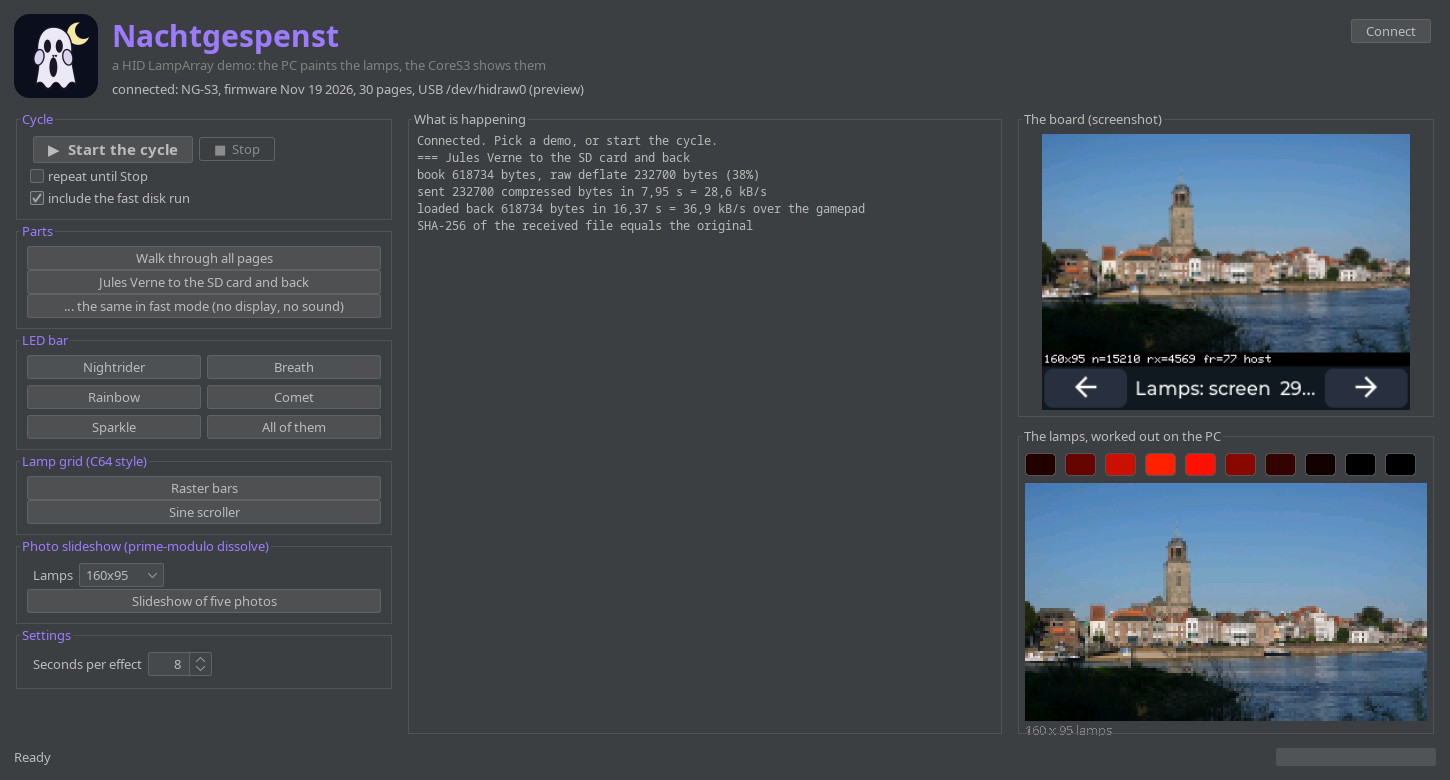
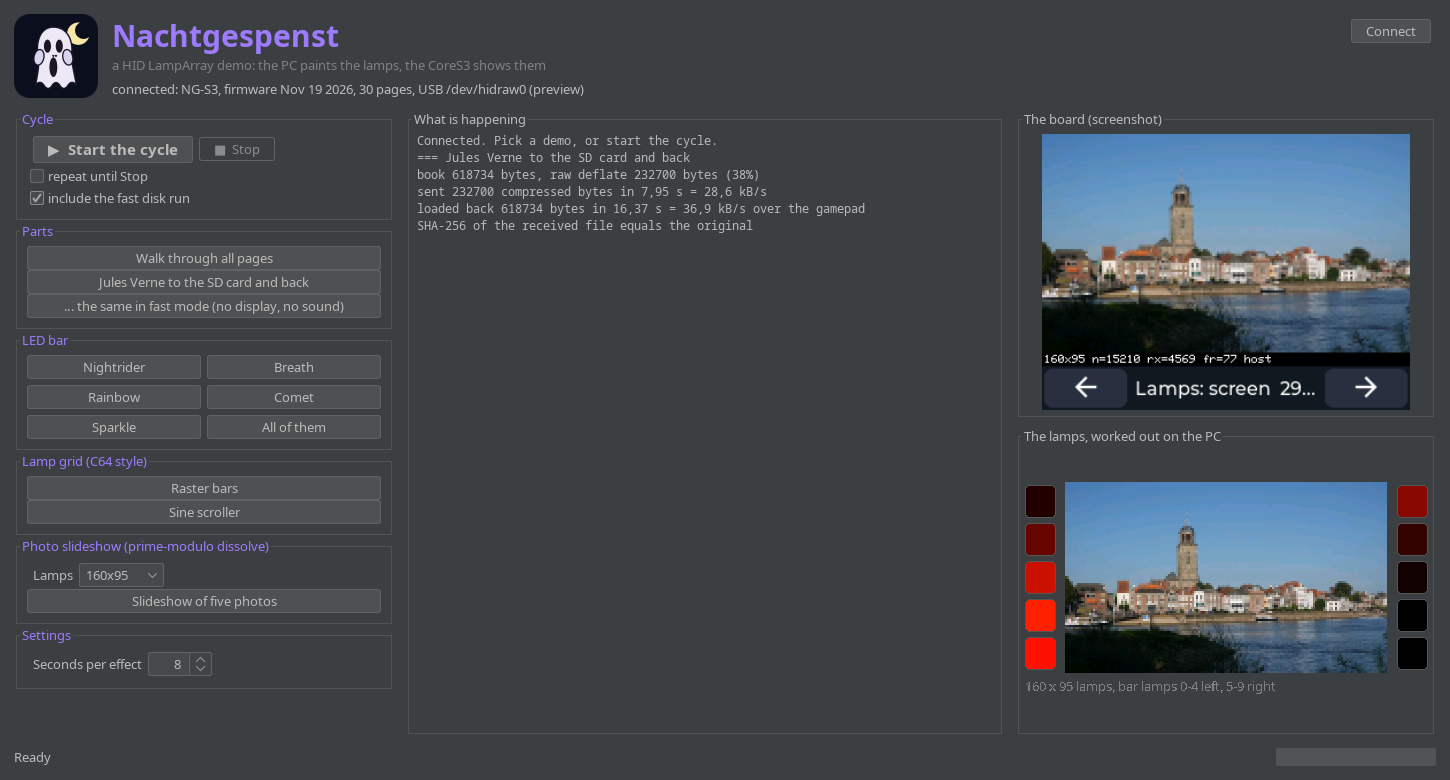
Demo window: the bar lamps as two vertical bars left and right of the local lamp picture

Changed region(s): [[0.6828, 0.5846, 0.9931, 0.9538]]

diff --git a/tools/DemoApp.java b/tools/DemoApp.java
@@ -330,24 +330,38 @@ public class DemoApp {
         void setBar(int[] rgb) { bar = rgb; touch(); }
         void setGrid(int[] rgb, int c, int r) { grid = rgb; cols = c; rows = r; touch(); }
         void clear() { bar = new int[10]; grid = null; touch(); }
+        /** Two vertical bars of five lamps left and right of the picture (lamps 0 to 4 on the left, 5 to 9 on the right, top to bottom). */
         @Override protected void paintComponent(Graphics g0) {
             super.paintComponent(g0);
             Graphics2D g = (Graphics2D) g0;
-            Insets in = getInsets(); int w = getWidth() - in.left - in.right - 8, x0 = in.left + 4, y = in.top + 6;
-            int[] b = bar; int cell = Math.min(34, w / 10);
-            for (int i = 0; i < 10; i++) {
-                g.setColor(new Color(b[i] & 0xFFFFFF)); g.fillRoundRect(x0 + i * (w / 10), y, cell - 4, 22, 8, 8);
-                g.setColor(new Color(0x555555)); g.drawRoundRect(x0 + i * (w / 10), y, cell - 4, 22, 8, 8);
+            Insets in = getInsets();
+            int barW = 30, gap = 10, x0 = in.left + 4, y0 = in.top + 6;
+            int w = getWidth() - in.left - in.right - 8, h = getHeight() - in.top - in.bottom - 34;
+            int availW = w - 2 * (barW + gap);
+            int[] gr = grid; int c = cols, r = rows;
+            double aspect = gr == null ? 320.0 / 190.0 : (double) c / r;                 // the lamp area of the device is 320 x 190
+            int pw = availW, ph = (int) (pw / aspect);
+            if (ph > h) { ph = h; pw = (int) (ph * aspect); }
+            int px = x0 + barW + gap + (availW - pw) / 2, py = y0 + (h - ph) / 2;
+            int[] b = bar;
+            for (int side = 0; side < 2; side++) {
+                int bx = side == 0 ? px - gap - barW : px + pw + gap;
+                for (int i = 0; i < 5; i++) {
+                    int cell = ph / 5, ly = py + i * cell + 3;
+                    g.setColor(new Color(b[side * 5 + i] & 0xFFFFFF)); g.fillRoundRect(bx, ly, barW, cell - 6, 10, 10);
+                    g.setColor(new Color(0x555555)); g.drawRoundRect(bx, ly, barW, cell - 6, 10, 10);
+                }
             }
-            int[] gr = grid; int top = y + 30;
-            if (gr == null) { g.setColor(Color.GRAY); g.drawString("bar lamps 0-9; the lamp grid appears here", x0, top + 16); return; }
-            int ch = getHeight() - in.bottom - top - 22; int c = cols, r = rows;
+            if (gr == null) {
+                g.setColor(new Color(0x2B2B2B)); g.fillRect(px, py, pw, ph); g.setColor(Color.GRAY);
+                g.drawRect(px, py, pw, ph); g.drawString("the lamp grid appears here", px + 12, py + ph / 2);
+                return;
+            }
             BufferedImage im = new BufferedImage(c, r, BufferedImage.TYPE_INT_RGB);
             im.setRGB(0, 0, c, r, gr, 0, c);
-            double k = Math.min((double) w / c, (double) ch / r); int pw = (int) (c * k), ph = (int) (r * k);
             g.setRenderingHint(RenderingHints.KEY_INTERPOLATION, RenderingHints.VALUE_INTERPOLATION_NEAREST_NEIGHBOR);
-            g.drawImage(im, x0 + (w - pw) / 2, top, pw, ph, null);
-            g.setColor(Color.GRAY); g.drawString(c + " x " + r + " lamps", x0, top + ph + 14);
+            g.drawImage(im, px, py, pw, ph, null);
+            g.setColor(Color.GRAY); g.drawString(c + " x " + r + " lamps, bar lamps 0-4 left, 5-9 right", x0, py + ph + 18);
         }
     }
 
